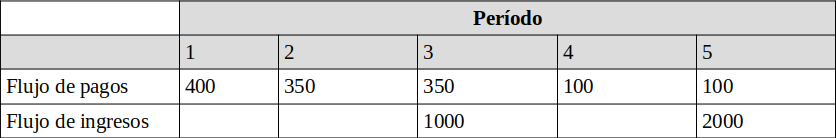
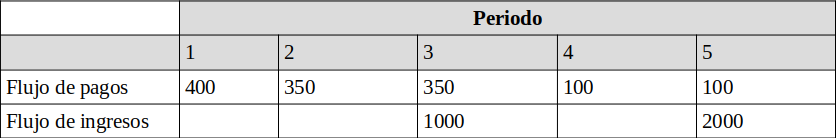
primera parte

diff --git a/EvaluacionEconomica/index.html b/EvaluacionEconomica/index.html
@@ -120,7 +120,7 @@
                 <li>Se tiene que repercutir en los proyectos todos los costes:
                     <ul>
                         <li>Los costes directos son fáciles de aplicar</li>
-                        <li>Los costes indirectos se suelen repercutirponderándolos con los costes directos</li>
+                        <li>Los costes indirectos se suelen repercutir ponderándolos con los costes directos</li>
                     </ul>
                 </li>
                 <li>Así tendremos una valoración media del coste de los informáticos y no sólo su coste directo</li>
@@ -131,14 +131,14 @@
         <h2>Cálculo del flujo de caja en un proyecto</h2>
             <ul>
                 <li>Empezamos por fijar la periodicidad de los pagos: días, semanas, meses.</li>
-                <li>Agrupamos el uso de recursos por períodos (tabla de doble entrada): recurso, períodos</li>
+                <li>Agrupamos el uso de recursos por periodos (tabla de doble entrada): recurso, periodos</li>
             </ul>
     </section>
 
     <section class="slide" id="cover">
         <h2>Cálculo del flujo de caja en un proyecto</h2>
         <img src="pictures-gp-01/TablaFlujoCaja.png" alt="Tabla flujo de caja" width="90%">
-        <p>(Por ejemplo: en el período 3 necesitamos 1 diseñador y 2 programadores)</p>
+        <p>(Por ejemplo: en el periodo 3 necesitamos 1 diseñador y 2 programadores)</p>
     </section>
 
     <section class="slide" id="cover">
